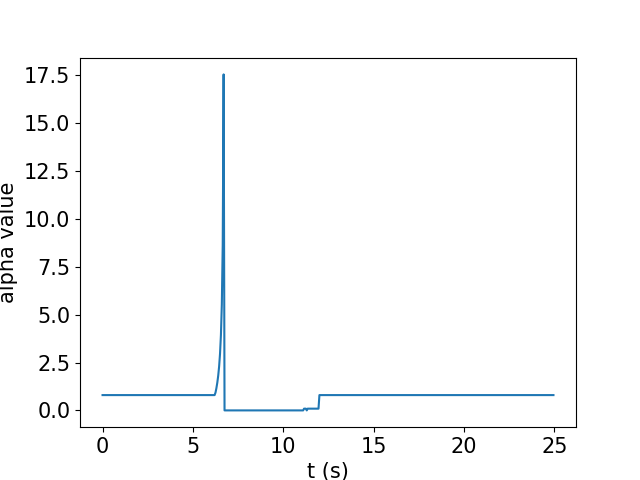
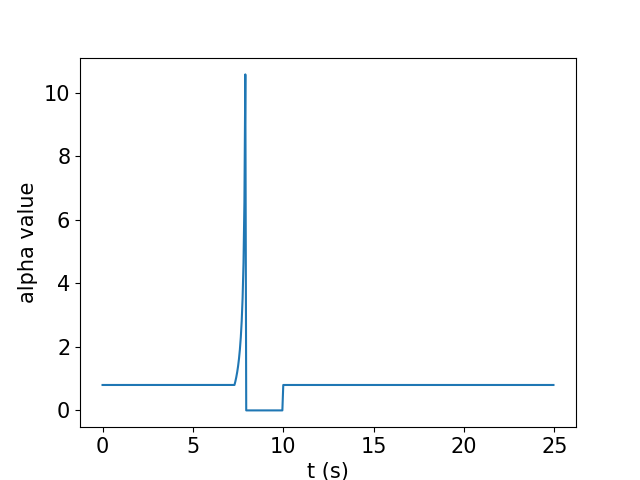
Removed Redundant Vidoes

diff --git a/tracking_reference_alpha_thresh.py b/tracking_reference_alpha_thresh.py
@@ -52,7 +52,7 @@ min_allowed_trajectory = PointsInCircum(5-d_max,20)[0:11]
 ax.plot(max_allowed_trajectory[:,0],max_allowed_trajectory[:,1],'k')
 ax.plot(min_allowed_trajectory[:,0],min_allowed_trajectory[:,1],'k')
 
-movie_name = 'curved_trajectory_with_large_disturb_alpha.mp4'
+movie_name = 'curved_trajectory_with_small_disturb_alpha.mp4'
 
 
 metadata = dict(title='Movie Test', artist='Matplotlib',comment='Movie support!')
@@ -113,8 +113,8 @@ with writer.saving(fig, movie_name, 100):
     for i in range(num_steps):
 
         if disturbance:
-            if (t >= 6 and t<=12) :
-                u_d.value = np.array([0.0,2.5]).reshape(2,1)
+            if (t >= 5 and t<=10) :
+                u_d.value = np.array([0.0,1.2]).reshape(2,1)
             else:
                 u_d.value = np.zeros((2,1))
 
@@ -156,7 +156,7 @@ with writer.saving(fig, movie_name, 100):
                 b2_hard.value = robot.b1_hard
                 A2_soft.value = robot.A1_soft
                 b2_soft.value = robot.b1_soft
-
+                print(t)
                 u2_ref.value = u1_ref.value
                 relaxed_controller.solve(solver=cp.GUROBI, reoptimize=True)
                 if (relaxed_controller.status!="optimal"):
@@ -168,7 +168,7 @@ with writer.saving(fig, movie_name, 100):
                 robot.nextU = u1.value + u_d.value
 
         except:
-            print("here")
+            print(t)
             robot.A1_hard[0,:] = np.zeros((1,2))
             robot.b1_hard[0] = 0
             A2_hard.value = robot.A1_hard

diff --git a/tracking_reference.py b/tracking_reference.py
@@ -139,8 +139,8 @@ with writer.saving(fig, movie_name, 100):
     for i in range(num_steps):
 
         if disturbance:
-            if (t >= 6 and t<=12) :
-                u_d.value = np.array([0.0,2.5]).reshape(2,1)
+            if (t >= 5 and t<=10) :
+                u_d.value = np.array([0.0,1.2]).reshape(2,1)
             else:
                 u_d.value = np.zeros((2,1))
 
@@ -180,7 +180,7 @@ with writer.saving(fig, movie_name, 100):
                 b2_hard.value = robot.b1_hard
                 A2_soft.value = robot.A1_soft
                 b2_soft.value = robot.b1_soft
-
+                print(t)
                 u2_ref.value = u1_ref.value
                 relaxed_controller.solve(solver=cp.GUROBI, reoptimize=True)
                 if (relaxed_controller.status!="optimal"):
@@ -191,7 +191,7 @@ with writer.saving(fig, movie_name, 100):
                 robot.nextU = u1.value + u_d.value
 
         except:
-            print("here")
+            print(t)
             robot.A1_hard[0,:] = np.zeros((1,2))
             robot.b1_hard[0] = 0
             A2_hard.value = robot.A1_hard
